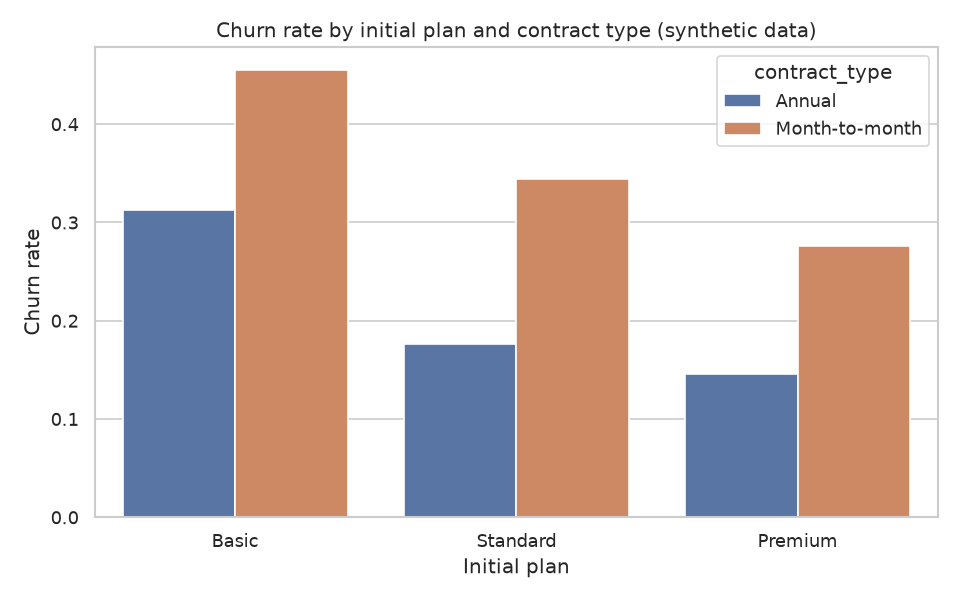
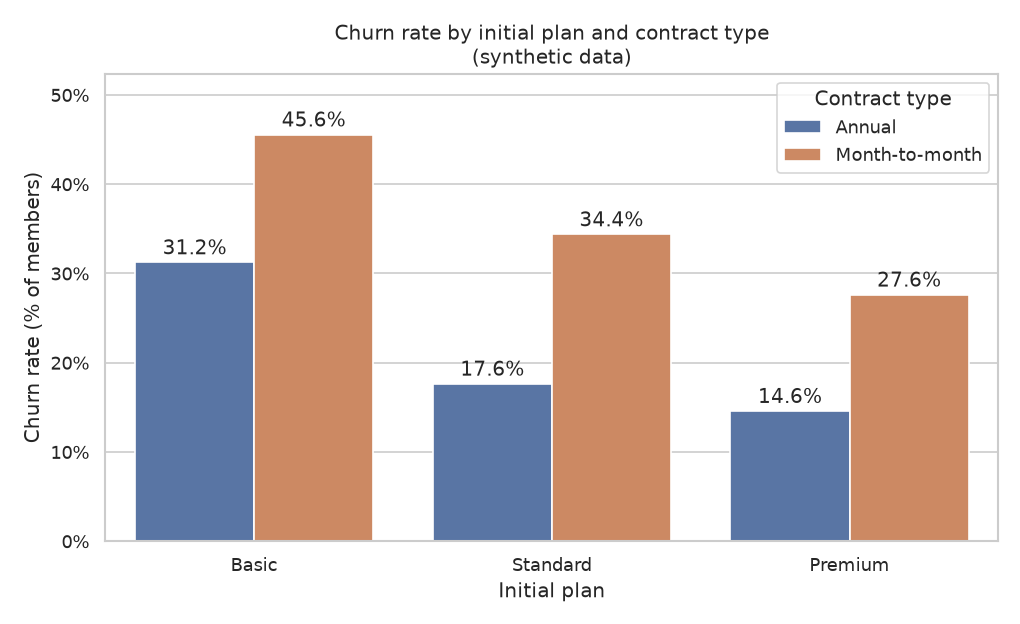
gym-membership-analysis: Improve chart titles, units, percent axes and labels

diff --git a/gym-membership-analysis/src/eda.py b/gym-membership-analysis/src/eda.py
@@ -14,6 +14,7 @@ matplotlib.use("Agg")  # non-interactive backend: figures are only saved to file
 import matplotlib.pyplot as plt
 import pandas as pd
 import seaborn as sns
+from matplotlib.ticker import PercentFormatter
 
 PROJECT_DIR = Path(__file__).resolve().parents[1]
 DATA_DIR = PROJECT_DIR / "data"
@@ -142,13 +143,15 @@ def make_charts(members, by_band, upg_band):
     sns.set_theme(style="whitegrid")
 
     # Chart 1: distribution of visits per week by churn status
-    fig, ax = plt.subplots(figsize=(8, 5))
+    fig, ax = plt.subplots(figsize=(9, 5.5))
     plot_df = members.assign(status=members["is_churned"].map({0: "Active", 1: "Churned"}))
     sns.histplot(data=plot_df, x="avg_visits_per_week", hue="status", bins=30,
                  stat="density", common_norm=False, element="step", ax=ax)
-    ax.set_title("Average visits per week: active vs churned members (synthetic data)")
-    ax.set_xlabel("Average visits per week (last 90 days)")
-    ax.set_ylabel("Density")
+    ax.set_title("Distribution of average visits per week: active vs churned members\n"
+                 "(synthetic data, last 90 days)")
+    ax.set_xlabel("Average visits per week (visits/week)")
+    ax.set_ylabel("Density (share of members per visits/week)")
+    sns.move_legend(ax, "upper right", title="Member status")
     fig.tight_layout()
     fig.savefig(FIG_DIR / "visits_by_churn_status.png", dpi=120)
     plt.close(fig)
@@ -157,36 +160,50 @@ def make_charts(members, by_band, upg_band):
     fig, ax = plt.subplots(figsize=(8, 5))
     sns.boxplot(data=members, x="current_plan", y="avg_visits_per_week",
                 order=PLAN_ORDER, ax=ax)
-    ax.set_title("Visit frequency by current plan (synthetic data)")
+    ax.set_title("Visit frequency by current plan\n(synthetic data, last 90 days)")
     ax.set_xlabel("Current plan")
-    ax.set_ylabel("Average visits per week")
+    ax.set_ylabel("Average visits per week (visits/week)")
+    ax.set_ylim(bottom=0)
     fig.tight_layout()
     fig.savefig(FIG_DIR / "visits_by_plan.png", dpi=120)
     plt.close(fig)
 
-    # Chart 3: churn rate and upgrade rate by visit band
-    fig, axes = plt.subplots(1, 2, figsize=(11, 4.5))
-    axes[0].bar(by_band.index.astype(str), by_band["churn_rate"], color="tab:red")
-    axes[0].set_title("Churn rate by visit band")
-    axes[0].set_xlabel("Average visits per week")
-    axes[0].set_ylabel("Churn rate")
-    axes[1].bar(upg_band.index.astype(str), upg_band.values, color="tab:green")
-    axes[1].set_title("Upgrade rate by visit band (Basic/Standard starters)")
-    axes[1].set_xlabel("Average visits per week")
-    axes[1].set_ylabel("Upgrade rate")
-    fig.suptitle("Synthetic data")
-    fig.tight_layout()
+    # Chart 3: churn rate and upgrade rate by visit band, with percent labels
+    fig, axes = plt.subplots(1, 2, figsize=(11, 4.8))
+    churn_bars = axes[0].bar(by_band.index.astype(str), by_band["churn_rate"], color="tab:red")
+    axes[0].set_title("Churn rate by visit band\n(all members)")
+    axes[0].set_xlabel("Average visits per week (visits/week)")
+    axes[0].set_ylabel("Churn rate (% of members)")
+    axes[0].yaxis.set_major_formatter(PercentFormatter(1.0))
+    axes[0].set_ylim(0, by_band["churn_rate"].max() * 1.15)
+    axes[0].bar_label(churn_bars, labels=[f"{v:.1%}" for v in by_band["churn_rate"]], padding=3)
+
+    upg_bars = axes[1].bar(upg_band.index.astype(str), upg_band.values, color="tab:green")
+    axes[1].set_title("Upgrade rate by visit band\n(Basic and Standard starters)")
+    axes[1].set_xlabel("Average visits per week (visits/week)")
+    axes[1].set_ylabel("Upgrade rate (% of eligible members)")
+    axes[1].yaxis.set_major_formatter(PercentFormatter(1.0))
+    axes[1].set_ylim(0, upg_band.max() * 1.15)
+    axes[1].bar_label(upg_bars, labels=[f"{v:.1%}" for v in upg_band.values], padding=3)
+
+    fig.suptitle("Churn and upgrade rates by average visits per week (synthetic data)")
+    fig.tight_layout(rect=[0, 0, 1, 0.94])
     fig.savefig(FIG_DIR / "churn_upgrade_by_visit_band.png", dpi=120)
     plt.close(fig)
 
     # Chart 4: churn rate by contract type and initial plan
-    fig, ax = plt.subplots(figsize=(8, 5))
+    fig, ax = plt.subplots(figsize=(8.5, 5.2))
     seg = members.groupby(["initial_plan", "contract_type"])["is_churned"].mean().reset_index()
     sns.barplot(data=seg, x="initial_plan", y="is_churned", hue="contract_type",
                 order=PLAN_ORDER, ax=ax)
-    ax.set_title("Churn rate by initial plan and contract type (synthetic data)")
+    ax.set_title("Churn rate by initial plan and contract type\n(synthetic data)")
     ax.set_xlabel("Initial plan")
-    ax.set_ylabel("Churn rate")
+    ax.set_ylabel("Churn rate (% of members)")
+    ax.yaxis.set_major_formatter(PercentFormatter(1.0))
+    ax.set_ylim(0, seg["is_churned"].max() * 1.15)
+    for container in ax.containers:
+        ax.bar_label(container, labels=[f"{v:.1%}" for v in container.datavalues], padding=2)
+    sns.move_legend(ax, "upper right", title="Contract type")
     fig.tight_layout()
     fig.savefig(FIG_DIR / "churn_by_plan_contract.png", dpi=120)
     plt.close(fig)
